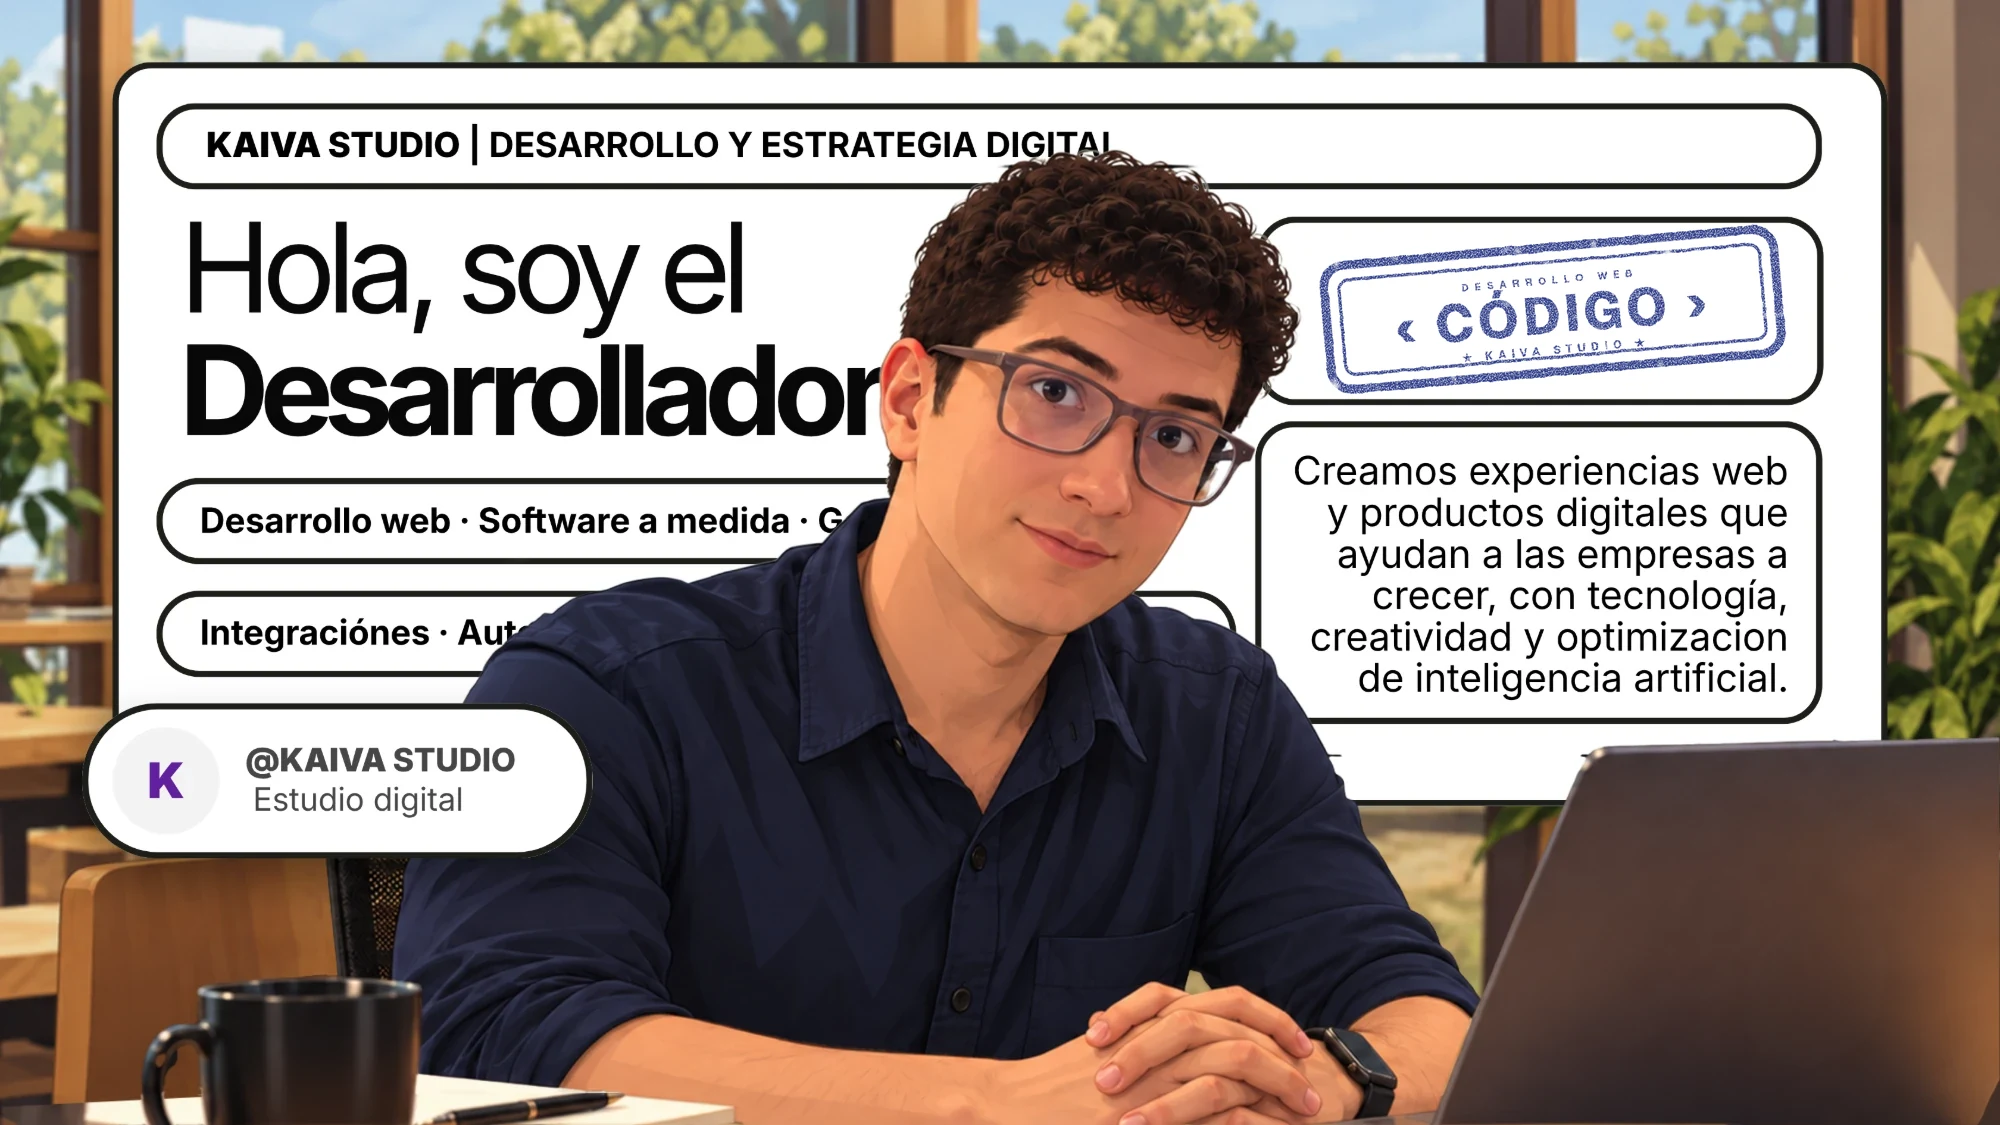
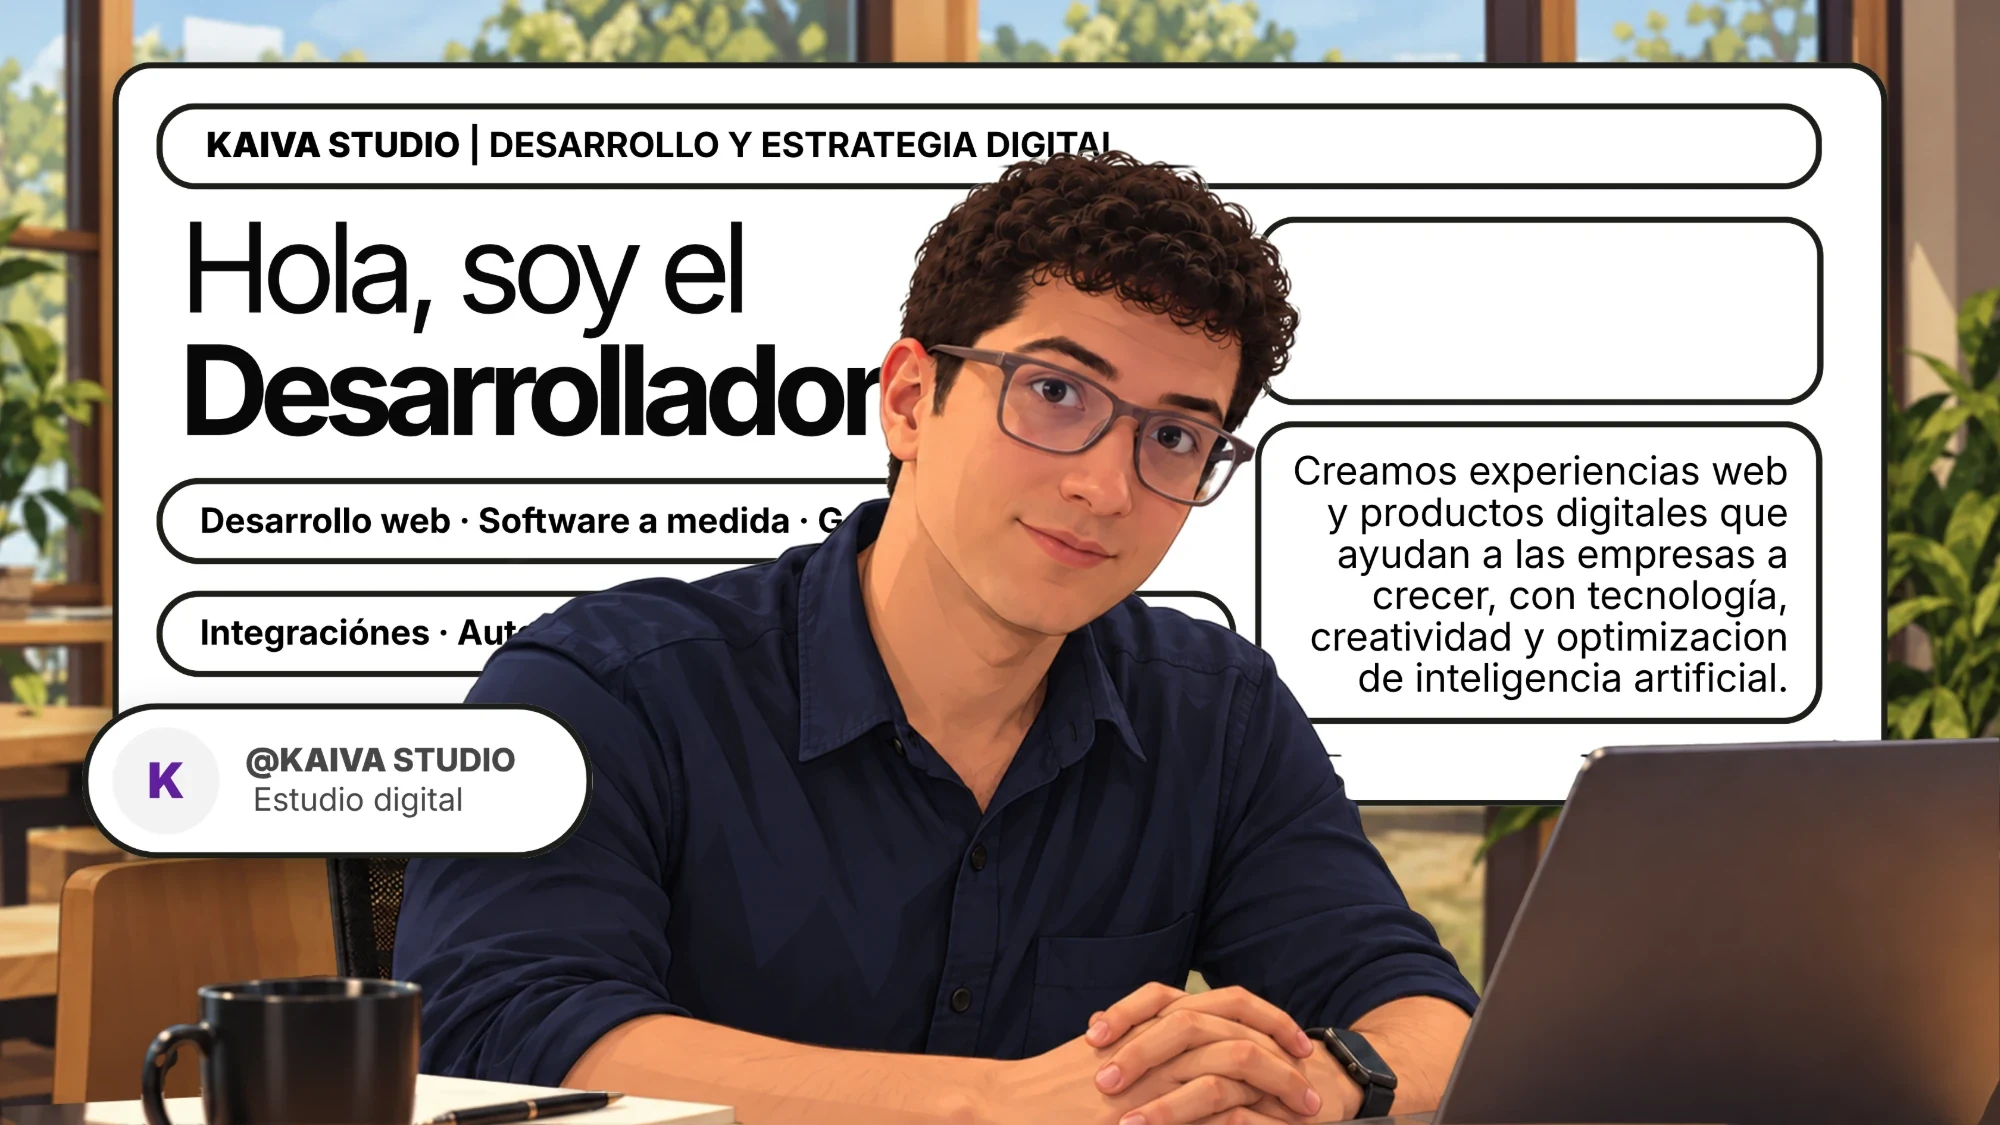
Quienes somos: el sello cae sobre la ficha al abrirla (#120)
Claude-Session: https://claude.ai/code/session_01GHZvfhrEvsATY3kq1jdZrV

Changed region(s): [[0.651, 0.1867, 0.899, 0.3733]]

diff --git a/nosotros/index.html b/nosotros/index.html
@@ -1021,6 +1021,14 @@ html.has-cursor input,html.has-cursor textarea{cursor:text!important}
 .ql-lights i:last-child{background:#28C840}
 .ql-lights button{width:12px;height:12px;padding:0;border:0;border-radius:50%;background:#FF5F57;cursor:pointer}
 .ql-win img{display:block;width:100%;height:auto;aspect-ratio:16/9;background:#EFE8F7}
+/* el sello (Código / Diseño) cae sobre la ficha cada vez que se abre, como un sello de tinta */
+.ql-pic{position:relative}
+.ql-win .ql-stamp{position:absolute;width:auto;height:auto;aspect-ratio:auto;background:none;pointer-events:none;opacity:0;transform-origin:50% 55%}
+.ql-stamp.go{animation:qlstamp .6s cubic-bezier(.2,.8,.2,1) .45s both}
+.ql-pic.go{animation:qlthud .32s ease-out .72s}
+@keyframes qlstamp{0%{opacity:0;transform:scale(2.2) rotate(-10deg)}55%{opacity:1;transform:scale(.92) rotate(1.5deg)}78%{transform:scale(1.03) rotate(-.4deg)}100%{opacity:1;transform:none}}
+@keyframes qlthud{35%{transform:translateY(3px) scale(.996)}100%{transform:none}}
+@media (prefers-reduced-motion:reduce){.ql-win .ql-stamp{opacity:1;animation:none}.ql-pic.go{animation:none}}
 @media (max-width:700px){.nsf{gap:6px}.nsf-doc{width:64px;padding:2px;border-radius:4px}.nsf-ext{left:4px;top:4px;padding:1px 4px;font-size:7px}.nsf b{padding:3px 8px;font-size:10px}.nsf small{display:none}}
 @media (prefers-reduced-motion:reduce){.nsf,.nsf-doc{animation:none;transition:opacity .2s}}
 /* por qué Kaiva */
@@ -1163,7 +1171,7 @@ html.has-cursor input,html.has-cursor textarea{cursor:text!important}
     </div>
   </main>
   <div class="ql" id="ql" role="dialog" aria-modal="true" aria-label="Vista previa" hidden>
-    <div class="ql-win"><div class="ql-bar"><div class="ql-lights"><button type="button" aria-label="Cerrar vista previa"></button><i></i><i></i></div><span id="qlName"></span></div><img id="qlImg" alt="" width="2000" height="1125"></div>
+    <div class="ql-win"><div class="ql-bar"><div class="ql-lights"><button type="button" aria-label="Cerrar vista previa"></button><i></i><i></i></div><span id="qlName"></span></div><div class="ql-pic"><img id="qlImg" alt="" width="2000" height="1125"><img class="ql-stamp" id="qlStamp" alt="" aria-hidden="true"></div></div>
   </div>
   <script>
   (function(){
@@ -1206,9 +1214,11 @@ html.has-cursor input,html.has-cursor textarea{cursor:text!important}
     }
     filePos();setTimeout(filePos,1300);window.addEventListener('resize',function(){pillPos();filePos()});
     /* abrir un archivo = vista previa como en el Mac */
-    var QL={mateo:{src:'/assets/inicio/ficha-mateo.webp?v=2',name:'Mateo.png',alt:'Ficha de Mateo, desarrollador web de Kaiva Studio'},disenadora:{src:'/assets/inicio/ficha-disenadora.webp?v=2',name:'Sara.png',alt:'Ficha de la diseñadora gráfica de Kaiva Studio'}};
+    var QL={mateo:{src:'/assets/inicio/ficha-mateo.webp?v=3',name:'Mateo.png',alt:'Ficha de Mateo, desarrollador web de Kaiva Studio',st:['/assets/inicio/sello-mateo.webp?v=1',64.5,19.82,26.25]},disenadora:{src:'/assets/inicio/ficha-disenadora.webp?v=3',name:'Sara.png',alt:'Ficha de la diseñadora gráfica de Kaiva Studio',st:['/assets/inicio/sello-disenadora.webp?v=1',68.1,44.36,22.3]}};
+    var qlStamp=document.getElementById('qlStamp'),qlPic=qlStamp.parentNode;
+    function qlSeal(d){var t=d.st;qlStamp.classList.remove('go');qlPic.classList.remove('go');qlStamp.src=t[0];qlStamp.style.left=t[1]+'%';qlStamp.style.top=t[2]+'%';qlStamp.style.width=t[3]+'%';void qlStamp.offsetWidth;qlStamp.classList.add('go');qlPic.classList.add('go')}
     var ql=document.getElementById('ql'),qlImg=document.getElementById('qlImg'),qlName=document.getElementById('qlName'),qlFrom=null;
-    function qlOpen(k,from){var d=QL[k];if(!d)return;qlFrom=from;qlImg.src=d.src;qlImg.alt=d.alt;qlName.textContent=d.name;ql.hidden=false;requestAnimationFrame(function(){ql.classList.add('open')});ql.querySelector('.ql-lights button').focus({preventScroll:true})}
+    function qlOpen(k,from){var d=QL[k];if(!d)return;qlFrom=from;qlImg.src=d.src;qlImg.alt=d.alt;qlName.textContent=d.name;ql.hidden=false;qlSeal(d);requestAnimationFrame(function(){ql.classList.add('open')});ql.querySelector('.ql-lights button').focus({preventScroll:true})}
     function qlClose(){ql.classList.remove('open');setTimeout(function(){ql.hidden=true},300);if(qlFrom)qlFrom.focus({preventScroll:true})}
     files.forEach(function(fl){fl.addEventListener('click',function(){qlOpen(fl.dataset.ql,fl)})});
     ql.addEventListener('click',function(e){if(e.target===ql||e.target.closest('.ql-lights button'))qlClose()});
